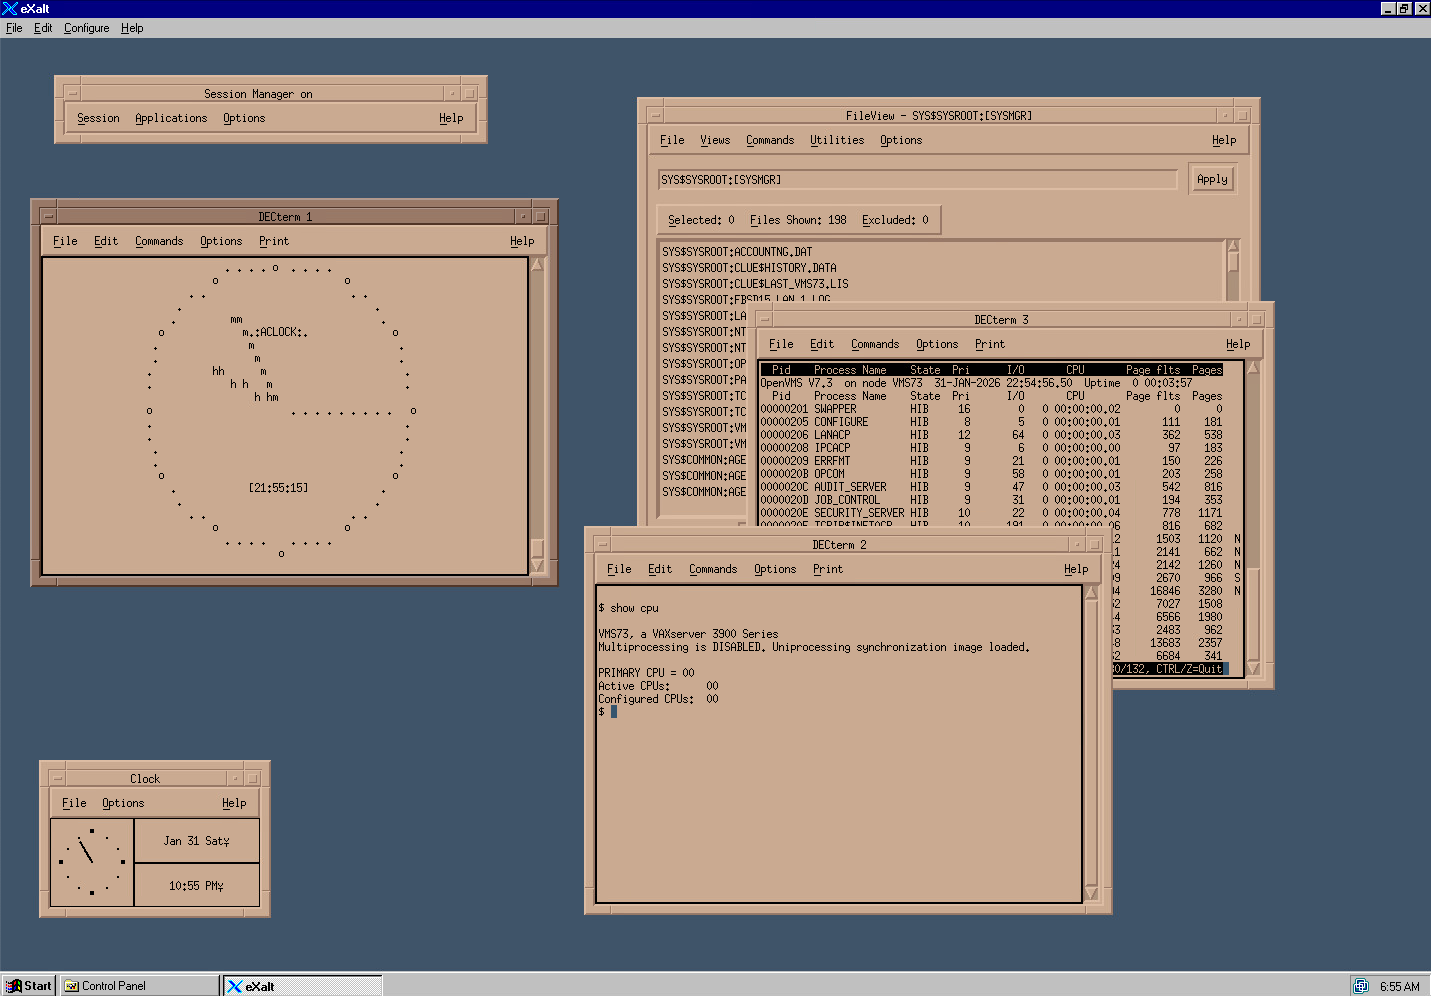
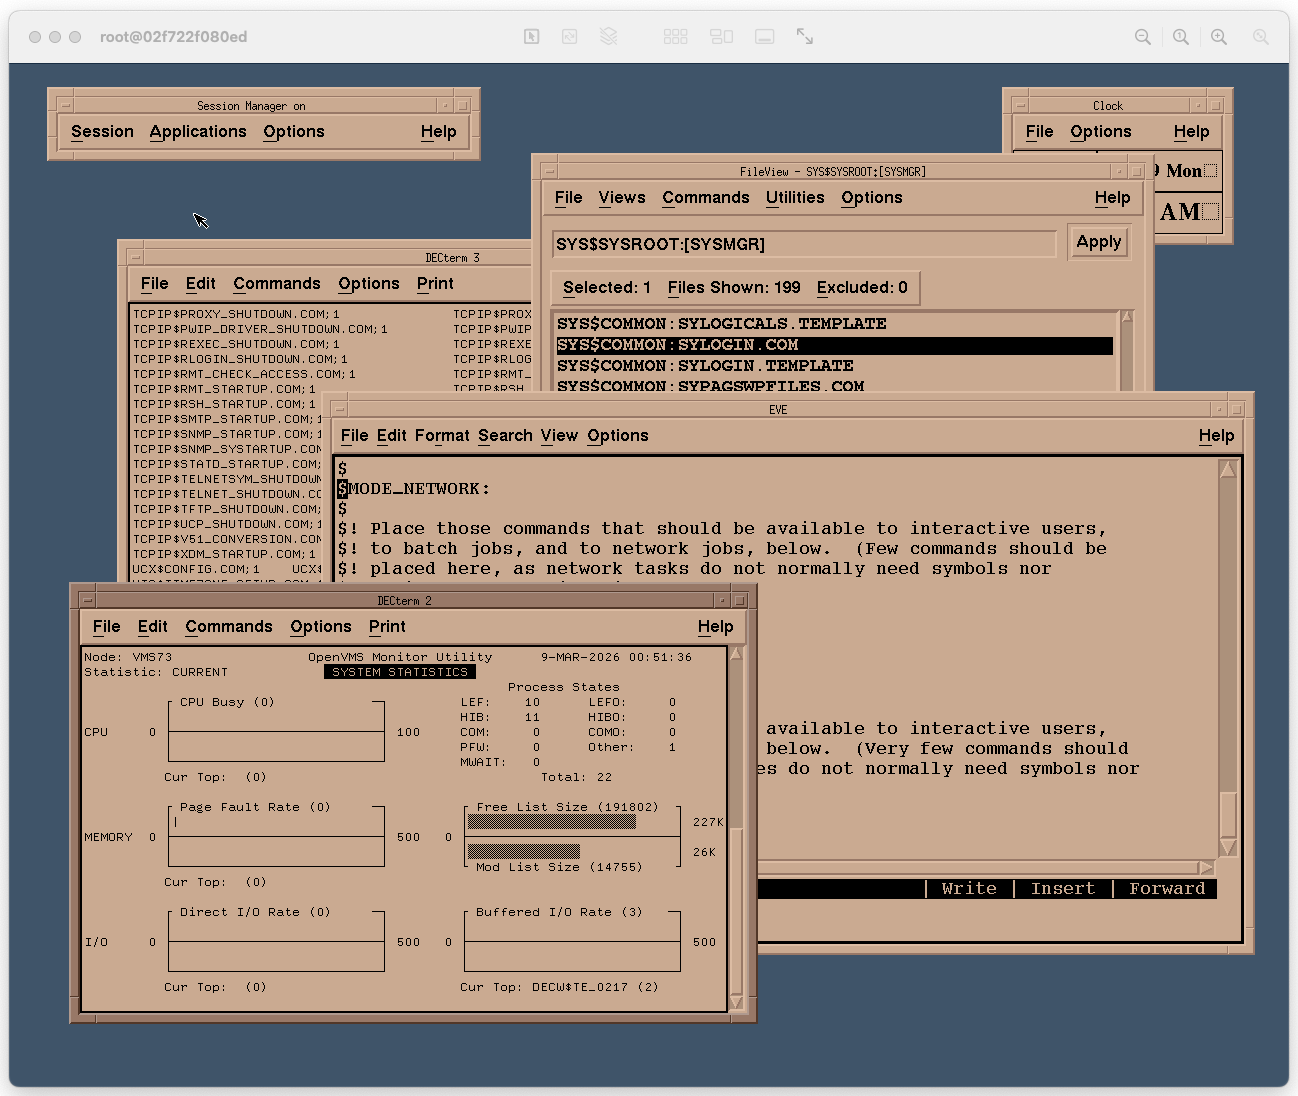
readme update

diff --git a/README.md b/README.md
@@ -1,4 +1,4 @@
-# OpenVMS 7.3 on SIMH VAX - Docker Container
+# OpenVMS 7.3 on SIMH VAX - Docker Container with DEC Windows via VNC
 
 https://hub.docker.com/r/tenox7/openvms73
 
@@ -12,11 +12,24 @@ docker run -it --rm tenox7/openvms73:latest
 
 Login as `system` password is `systempassword`.
 
+
+## Telnet 
+
 To telnet/ftp/rlogin/rsh to the guest add `-p`, for example for telnet:
 
 ```sh
 docker run -it --rm -p 23:23 tenox7/openvms73:latest
 ```
+
+## VNC to DEC Windows
+
+Conveniently this container now contains a VNC Server with X11 XDMCP Query. You can just VNC in to the container! The password is `vncvms`.  On MacOS you can simply `open vnc://127.0.0.1`.
+
+```sh
+docker run -it --rm -p 5900:5900 tenox7/openvms73:latest
+```
+
+## X11
 
 To forward X11 XDMCP Query add `-p 177:177/udp`:
 
@@ -25,6 +38,7 @@ docker run -it --rm -p 23:23 -p 177:177/udp tenox7/openvms73:latest
 ```
 
 *I was not able to connect to it unless client display is `:0`. In particular `Xnest -ac -query :1` did not work for me. Only `:0` does. If you know how to fix it, LMK.*
+
 
 ## Persistent State
 